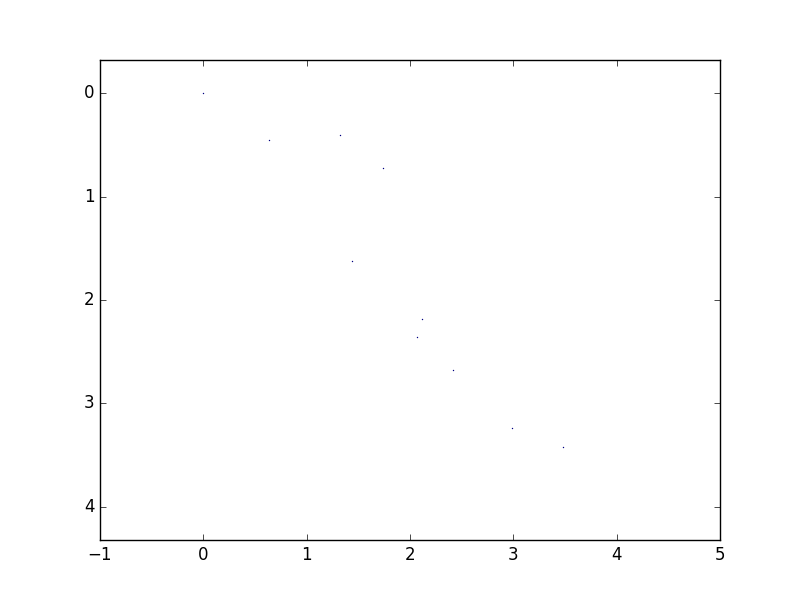
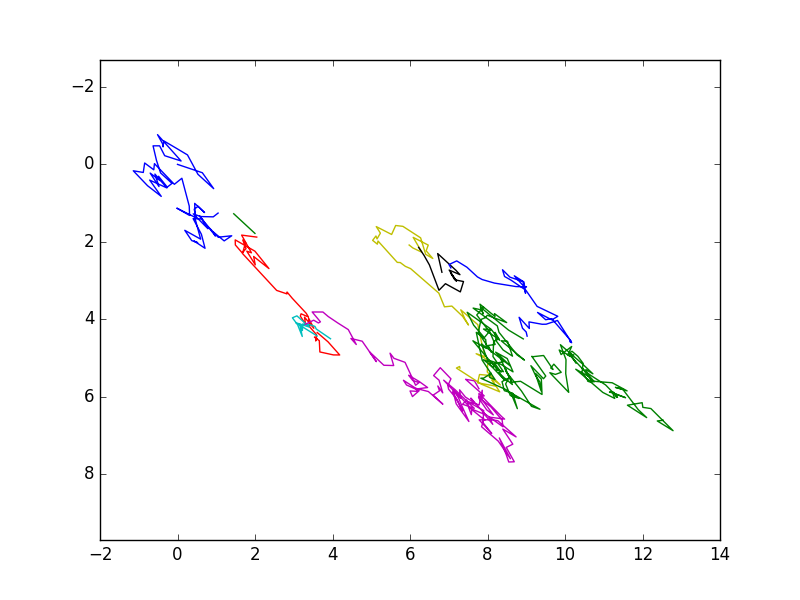
in process of changing the model to seq2seq, see if that works.

diff --git a/model.py b/model.py
@@ -12,7 +12,6 @@ from config import PARAMS
 import tensorflow as tf
 import numpy as np
 
-
 class HandwritingModel:
     def __init__(self, generate_mode=False):
         self.generate_mode = generate_mode
@@ -22,6 +21,7 @@ class HandwritingModel:
         else:
             batch_size = PARAMS.batch_size
             sequence_len = PARAMS.sequence_len
+
         with tf.name_scope("INPUT"):
             self.input_placeholder = tf.placeholder(tf.float32,
                                         shape=( batch_size,
@@ -34,46 +34,48 @@ class HandwritingModel:
                             state_is_tuple=False,
                             initializer=tf.contrib.layers.xavier_initializer()
                             )
-            self.stacked_lstm_cell = tf.nn.rnn_cell.MultiRNNCell(
+            stacked_lstm_cell = tf.nn.rnn_cell.MultiRNNCell(
                             [lstm_cell] * PARAMS.number_of_layers,
                             state_is_tuple=False
                             )
 
-            """DO THIS THING:
-            http://stackoverflow.com/questions/38241410/tensorflow-remember-lstm-state-for-next-batch-stateful-lstm"""
-            self.lstm_zero_state = self.stacked_lstm_cell.zero_state(
+            if (not self.generate_mode) and PARAMS.dropout_keep_prob < 1:
+                stacked_lstm_cell = tf.nn.rnn_cell.DropoutWrapper(stacked_lstm_cell, output_keep_prob = PARAMS.dropout_keep_prob)
+
+            print(stacked_lstm_cell.state_size)
+            lstm_zero_state = stacked_lstm_cell.zero_state(
                                                     batch_size=batch_size,
                                                     dtype=tf.float32)
 
-            print(self.lstm_zero_state)
-
-
-            """np.zeros([PARAMS.number_of_layers, 2,
-                                           PARAMS.batch_size, PARAMS.lstm_size],
-                                           dtype=np.float32)"""
-
-
-            #self.state_placeholder = tf.placeholder(tf.float32, [PARAMS.number_of_layers, 2, PARAMS.batch_size, PARAMS.lstm_size])
-            #print(self.lstm_zero_state)
             self.initial_state_placeholder = tf.placeholder_with_default(
-                            self.lstm_zero_state,
+                            lstm_zero_state,
                             shape=[batch_size, PARAMS.lstm_size*2*PARAMS.number_of_layers]
                             )
 
-            """l = tf.unpack(self.initial_state_placeholder, axis=0)
-            print(self.stacked_lstm_cell.state_size, "<-----")
-            rnn_tuple_state = tuple(
-                                #[tf.nn.rnn_cell.LSTMStateTuple(l[idx][0],
-                                [(l[idx][0], l[idx][1])
-                                 for idx in range(PARAMS.number_of_layers)]
-                                )
-            print(rnn_tuple_state)"""
+            """
             lstm_outputs, self.last_state = tf.nn.dynamic_rnn(
-                            cell=self.stacked_lstm_cell,
+                            cell=stacked_lstm_cell,
                             inputs=self.input_placeholder,
                             initial_state=self.initial_state_placeholder,
                             dtype=tf.float32
-                            )
+                            )"""
+
+            inputs = tf.split(1, sequence_len, self.input_placeholder)
+            inputs = [tf.squeeze(input_, [1]) for input_ in inputs]
+            print("inputs: ", inputs)
+            lstm_outputs, self.last_state = tf.nn.seq2seq.rnn_decoder(
+                                                    inputs,
+                                                    initial_state=self.initial_state_placeholder,
+                                                    cell=stacked_lstm_cell,
+                                                    loop_function=None)
+            print(lstm_outputs)
+            lstm_outputs = tf.reshape(tf.concat(1, outputs), [-1, args.rnn_size])
+            output = tf.nn.xw_plus_b(output, output_w, output_b)
+            self.final_state = last_state
+
+            # reshape target data so that it is compatible with prediction shape
+            flat_target_data = tf.reshape(self.target_data,[-1, 3])
+            [x1_data, x2_data, eos_data] = tf.split(1, 3, flat_target_data)
 
         with tf.name_scope("FC_LAYER"):
             W = tf.get_variable("W_out",
@@ -95,7 +97,7 @@ class HandwritingModel:
             """TODO: make this tensor multiplication into a pattern,
             to make it neater to reuse"""
 
-            self.network_output = tf.sigmoid(output_layer,
+            network_output = tf.sigmoid(output_layer,
                                             name="network_output")
 
         with tf.name_scope("LOSS"):
@@ -107,9 +109,9 @@ class HandwritingModel:
             # > Copy the input data num_gaussians times, so that we can calculate
             #   frequency densities for every gaussian at once.
 
-            self.x1_data, self.x2_data, self.eos_data = (tf.squeeze(x, axis=2) for x in tf.split(2, 3, self.next_inputs_placeholder))
-            self.x1_data, self.x2_data = [tf.stack([x] * PARAMS.num_gaussians,
-                                      axis=2) for x in [self.x1_data, self.x2_data]]
+            x1_data, x2_data, eos_data = (tf.squeeze(x, axis=2) for x in tf.split(2, 3, self.next_inputs_placeholder))
+            x1_data, x2_data = [tf.stack([x] * PARAMS.num_gaussians,
+                                      axis=2) for x in [x1_data, x2_data]]
 
             # Take first element as bernoulli param for end-of-stroke.
             phat_bernoulli = output_layer[:, :, 0]
@@ -117,13 +119,13 @@ class HandwritingModel:
 
             # Split remaining elements into parameters for the gaussians,
             # which are used to define the distribution mix for prediction.
-            self.predicted_gaussian_params = tf.reshape(self.network_output[:, :, 1:],
+            predicted_gaussian_params = tf.reshape(network_output[:, :, 1:],
                                                     [batch_size,
                                                      sequence_len,
                                                      PARAMS.num_gaussians,
                                                      6])
 
-            phat_pi, phat_mu1, phat_mu2, phat_sigma1, phat_sigma2, phat_rho = (tf.squeeze(x, axis=3) for x in tf.split(3, 6, self.predicted_gaussian_params))
+            phat_pi, phat_mu1, phat_mu2, phat_sigma1, phat_sigma2, phat_rho = (tf.squeeze(x, axis=3) for x in tf.split(3, 6, predicted_gaussian_params))
 
             # Transform the phat (p-hat) parameters into proper distribution
             # parameters, by normalising them as described in
@@ -147,19 +149,20 @@ class HandwritingModel:
 
                 return density
 
-            self.predicted_densities_by_gaussian = density_2d_gaussian(self.x1_data, self.x2_data,
+            predicted_densities_by_gaussian = density_2d_gaussian(x1_data, x2_data,
                                                         self.p_mu1, self.p_mu2,
                                                         self.p_sigma1, self.p_sigma2,
                                                         self.p_rho)
 
             # Weight densities_by_gaussian by self.p_pi to get prob density for
             # each time step.
-            self.weighted_densities = tf.mul(self.predicted_densities_by_gaussian, self.p_pi)
-            self.total_densities = tf.reduce_sum(self.weighted_densities, axis=2)
-            loss_due_to_gaussians = -tf.log(self.total_densities)
-            loss_due_to_bernoulli = -tf.log(1 - self.eos_data + (2*self.eos_data - 1) * self.p_bernoulli)
-            self.loss_by_time_step = (loss_due_to_gaussians + loss_due_to_bernoulli)
-            self.total_loss = tf.reduce_mean(self.loss_by_time_step)
+            weighted_densities = tf.mul(predicted_densities_by_gaussian, self.p_pi)
+            total_densities = tf.reduce_sum(weighted_densities, axis=2)
+            loss_due_to_gaussians = -tf.log(tf.maximum(total_densities, 1e-20))
+            loss_due_to_bernoulli = -tf.log(self.p_bernoulli * eos_data +
+                                            (1 - self.p_bernoulli) * (1-eos_data))
+            loss_by_time_step = (loss_due_to_gaussians + loss_due_to_bernoulli)
+            self.total_loss = tf.reduce_mean(loss_by_time_step)
             tf.summary.scalar('sample_loss', self.total_loss)
 
         with tf.name_scope("TRAIN"):
@@ -172,54 +175,6 @@ class HandwritingModel:
             self.summaries = tf.summary.merge_all()
 
             """TODO: add training params: dropout?, grad clipping"""
-    '''
-    def generate_sample(self, sess, length=500):
-        if not self.generate_mode:
-            print("Model not created in generate mode.\n",
-                    "Please recreate with generate_mode=True.")
-            return 0
-
-        def sample_from_gaussians(mu1, mu2, sigma1, sigma2, rho):
-            # Sample from some number of 2d gaussians, given their parameters.
-            # The covariance matrix is  [s1*s1      s1*s2*rho   ]
-            #                           [s1*s2*rho  s2*s2       ]
-            # taking to be the rho defined in
-            # http://www.itl.nist.gov/div898/handbook/pmc/section5/pmc542.htm
-            cov_matrix = np.array([[sigma1*sigma1,      sigma1*sigma2*rho],
-                                   [sigma1*sigma2*rho,  sigma2*sigma2    ]])
-            mean = np.array((mu1, mu2))
-            return np.array([np.random.multivariate_normal(np.squeeze(mean[:,:,:,i]),
-                                                           np.squeeze(cov_matrix[:,:,:,:,i]))
-                             for i in range(PARAMS.num_gaussians)])
-
-        prev_point = np.array([[[0.0, 0.0, 1]]])
-        prev_state = np.zeros([1, 2*PARAMS.lstm_size*PARAMS.number_of_layers])
-
-        all_offsets = []
-        for _ in range(length):
-            feed_dict = {self.input_placeholder             : prev_point,
-                         self.initial_state_placeholder     : prev_state}
-
-            (bernoulli_param, pi, rho,
-            mu1, mu2,
-            sigma1, sigma2,
-            prev_state) = sess.run( [self.p_bernoulli, self.p_pi, self.p_rho,
-                                     self.p_mu1, self.p_mu2,
-                                     self.p_sigma1, self.p_sigma2,
-                                     self.last_state],
-                                    feed_dict = feed_dict)
-            gaussian_points = sample_from_gaussians(mu1, mu2,
-                                                    sigma1, sigma2, rho)
-            weighted_points = np.reshape(pi, [-1, 1]) * gaussian_points
-            predicted_offset = np.sum(weighted_points, axis=0)
-
-            end_stroke = np.random.binomial(1, bernoulli_param, size=None)
-
-            prev_point = np.reshape(np.append(predicted_offset, 0), [1,1,-1])
-            # prev_point = np.reshape(np.append(predicted_offset, end_stroke), [1,1,-1])
-            all_offsets.append(np.squeeze(prev_point))
-        return np.array(all_offsets)'''
-
 
 if __name__ == "__main__":
     testmodel = HandwritingModel(generate_mode=True)

diff --git a/generate.py b/generate.py
@@ -6,17 +6,21 @@ import numpy as np
 from read_strokesets import Point, Stroke, StrokeSet
 from tqdm import tqdm
 
-def generate_sample(length=500):
+def generate_sample(length=500, use_saved=True):
     with tf.Session() as sess:
+        print("Creating model...")
         generating_model = model.HandwritingModel(generate_mode=True)
 
-        sess.run(tf.initialize_all_variables())
-        #saver = tf.train.Saver()
-        #saver.restore(sess, tf.train.latest_checkpoint(PARAMS.weights_directory))
+        if use_saved:
+            print("Loading variables...")
+            saver = tf.train.Saver()
+            saver.restore(sess, tf.train.latest_checkpoint(PARAMS.weights_directory))
+        else:
+            print("Initialising random variables...")
+            sess.run(tf.initialize_all_variables())
+        print("Done.")
 
-        print("MODEL MADE")
         def sample_from_gaussians(mu1, mu2, sigma1, sigma2, rho):
-            print(mu1, mu2)
             # Sample from some number of 2d gaussians, given their parameters.
             # The covariance matrix is  [s1*s1      s1*s2*rho   ]
             #                           [s1*s2*rho  s2*s2       ]
@@ -32,9 +36,8 @@ def generate_sample(length=500):
         prev_point = np.array([[[0.0, 0.0, 1]]])
         prev_state = np.zeros([1, 2*PARAMS.lstm_size*PARAMS.number_of_layers])
 
+        print("Generating points...")
         all_offsets = []
-
-        print("Generating")
         for _ in tqdm(range(length)):
             feed_dict = {generating_model.input_placeholder        : prev_point,
                          generating_model.initial_state_placeholder: prev_state}
@@ -51,7 +54,12 @@ def generate_sample(length=500):
                                     generating_model.p_sigma2,
                                     generating_model.last_state],
                                     feed_dict = feed_dict)
-
+            #print("bernoulli_param", bernoulli_param)
+            #print("pi", pi.shape)
+            #print("rho", rho)
+            #print("mu1 mu2", mu1, mu2)
+            #print("sigma1 sigma2", sigma1, sigma2)
+            #print("Prev state", prev_state)
             gaussian_points = sample_from_gaussians(mu1, mu2,
                                                     sigma1, sigma2, rho)
             weighted_points = np.reshape(pi, [-1, 1]) * gaussian_points
@@ -59,7 +67,7 @@ def generate_sample(length=500):
 
             end_stroke = np.random.binomial(1, bernoulli_param, size=None)
 
-            prev_point = np.reshape(np.append(predicted_offset, 0), [1, 1, -1])
+            prev_point = np.reshape(np.append(predicted_offset, end_stroke), [1, 1, -1])
             all_offsets.append(np.squeeze(prev_point))
 
         return np.array(all_offsets)
@@ -71,9 +79,7 @@ def strokeset_from_offsets(all_offsets):
     strokeset_strokes = []
     point=Point(0,0)
     stroke_points = [point]
-    t = 0
     for t in range(len(point_offsets)):
-        # point[2] is zero until the last point in a stroke
         point = Point(point.x + all_offsets[t,0],
                       point.y + all_offsets[t,1])
         print(point)
@@ -86,7 +92,7 @@ def strokeset_from_offsets(all_offsets):
     return StrokeSet(strokeset_strokes)
 
 if __name__ == "__main__":
-    point_offsets = generate_sample(length=10)
+    point_offsets = generate_sample(length=500)
 
     print("Making strokeset")
     strokeset = strokeset_from_offsets(point_offsets)

diff --git a/train.py b/train.py
@@ -39,6 +39,30 @@ with tf.Session() as sess:
         feed_dict = {training_model.input_placeholder : minibatch.points_data,
                         training_model.next_inputs_placeholder : minibatch.next_points_data}
 
+        """print("points ->\n", minibatch.points_data)
+        print("next points ->\n", minibatch.next_points_data)
+        stop = input()
+
+        (bernoulli_param, pi, rho,
+        mu1, mu2,
+        sigma1, sigma2,
+        prev_state) = sess.run([training_model.p_bernoulli,
+                                training_model.p_pi,
+                                training_model.p_rho,
+                                training_model.p_mu1,
+                                training_model.p_mu2,
+                                training_model.p_sigma1,
+                                training_model.p_sigma2,
+                                training_model.last_state],
+                                feed_dict = feed_dict)
+        #print("bernoulli_param", bernoulli_param)
+        print("pi", pi)
+        #print("rho", rho)
+        #print("mu1 mu2", mu1, mu2)
+        #print("sigma1 sigma2", sigma1, sigma2)
+        inp = input()
+        #print("Prev state", prev_state)"""
+
         _, current_step, summary = sess.run([training_model.reinforcement_train_op,
                                             training_model.global_step,
                                             training_model.summaries],
@@ -79,12 +103,11 @@ with tf.Session() as sess:
         print("Fetching training data...")
         training_data_generator = create_training_data.minibatch_generator_from_directory(
                                                         PARAMS.samples_directory
-                                                        # , max_strokesets=10)
+                                                        #, max_strokesets=10
                                                         )
         print("Training...")
         run_epoch(training_data_generator)
 
-"""On the list:
-
+"""On the TODO list:
 Implement evaluation / test (what's the correct word for it?)
 """

diff --git a/read_strokesets.py b/read_strokesets.py
@@ -44,7 +44,8 @@ class StrokeSet(object):
         for x, stroke in enumerate(self.strokes):
             coordinates = [p.coordinates() for p in stroke.points]
             x_points, y_points = zip(*coordinates)
-            ax.scatter(x_points, y_points, s=1, c=jet(100*x % 256), lw=0)
+            #ax.scatter(x_points, y_points, s=1, c=jet(100*x % 256), lw=0)
+            ax.plot(x_points, y_points)
         fig.savefig('testplot.png')
         """TODO: clean this up. Put 'plot' methods in the strokes?"""
 

diff --git a/config.py b/config.py
@@ -12,6 +12,7 @@ class Params():
 
     num_gaussians = 20
     output_size = 6 * num_gaussians + 1
+    dropout_keep_prob = 0.8
 
     # --- Model training params ------
     samples_directory = "./training_data/"
@@ -22,7 +23,7 @@ class Params():
     use_saved = False
     eval_every = 100
     record_every = 10
-    save_every = 1000
+    save_every = 100
 
     # --- Data reading params ---
     data_scale = 0.001

diff --git a/create_training_data.py b/create_training_data.py
@@ -73,6 +73,7 @@ def minibatches_from_strokesets(strokesets_list):
     minibatch_generator = minibatches_from_samples()
 
     for strokeset in strokesets_list:
+        print("Reading from new strokeset")
         strokeset_samples = training_samples_from_strokeset(strokeset)
         for minibatch in minibatch_generator(strokeset_samples):
             yield minibatch
